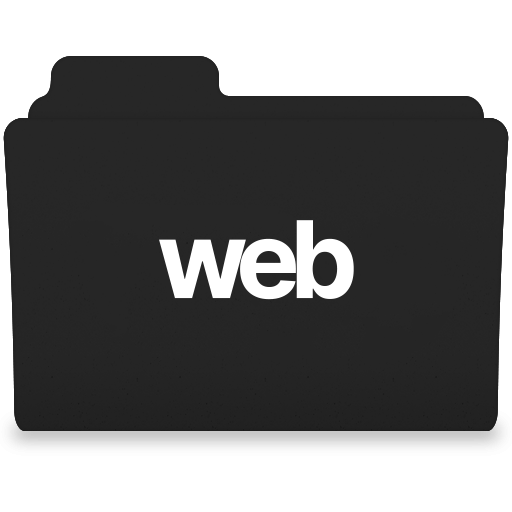
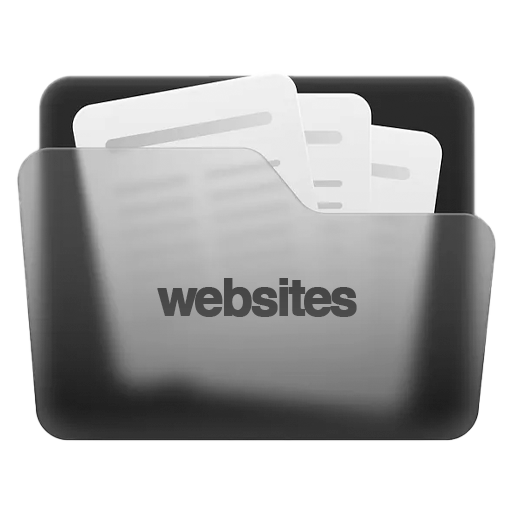
Mod

diff --git a/index.html b/index.html
@@ -245,7 +245,7 @@
 
     <section id="home">
         <div class="container-fluid my-5"
-            style="margin: 0; padding-left: 70px; padding-right: 70px; padding-top:100px;  background-color: #f8f7f3">
+            style="margin: 0; padding-left: 0px; padding-right: 0px; padding-top:100px;  background-color: #f8f7f3">
             <div class="row no-gutters" style="margin: 0;">
 
                 <!-- Left Column -->